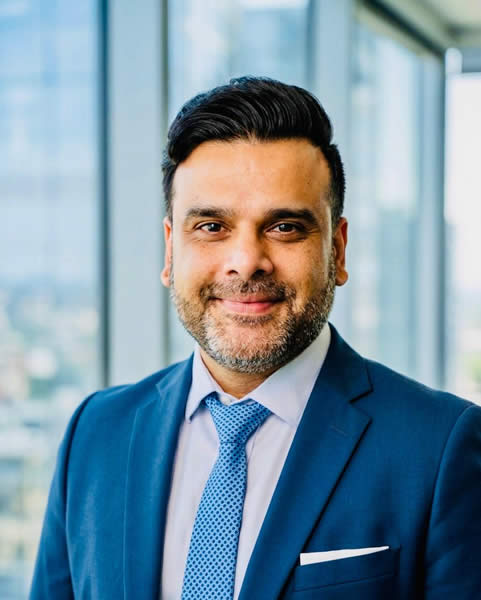
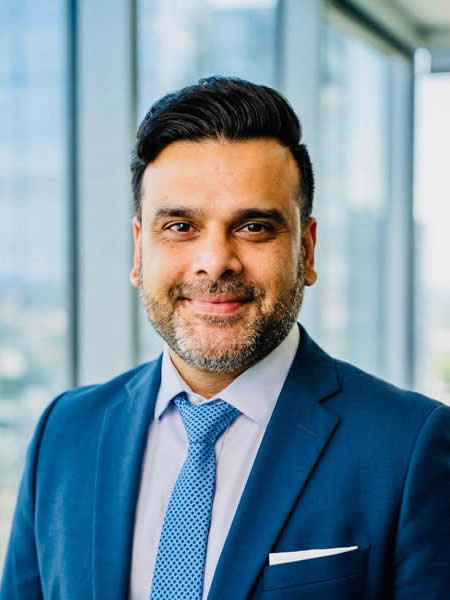
pages updated

diff --git a/about.html b/about.html
@@ -421,18 +421,31 @@
             <div class="leader-card__photo leader-card__photo--initials" data-initials="">
               <img src="images/bimal.jpg" alt="Bimal Kandel, US-based Support Partner of E Multitech Solution" loading="lazy" width="320" height="320" decoding="async" onerror="this.style.display='none';this.parentNode.classList.add('leader-card__photo--initials');">
             </div>
+            <div class="leader-card__verified">
+              <svg width="14" height="14" viewBox="0 0 24 24" fill="currentColor" aria-hidden="true"><path d="M12 0L9.5 3.5L5.5 3L3 6L5 9.5L3 13L5.5 16L9.5 15.5L12 19L14.5 15.5L18.5 16L21 13L19 9.5L21 6L18.5 3L14.5 3.5L12 0zM10 14L6 10L7.41 8.59L10 11.17L16.59 4.58L18 6L10 14z"/></svg>
+              Verified on LinkedIn
+            </div>
           </div>
           <div class="leader-card__body">
-            <p class="leader-card__role">Support Partner</p>
+            <p class="leader-card__role">Managing Partner</p>
             <h3 class="leader-card__name">Bimal Kandel</h3>
             <p class="leader-card__location">
               <svg width="14" height="14" viewBox="0 0 24 24" fill="none" stroke="currentColor" stroke-width="2" stroke-linecap="round" stroke-linejoin="round" aria-hidden="true"><path d="M21 10c0 7-9 13-9 13s-9-6-9-13a9 9 0 0 1 18 0z"/><circle cx="12" cy="10" r="3"/></svg>
-              United States
+              North America
             </p>
             <blockquote class="leader-card__quote">
               &ldquo;US-based support coverage &mdash; same-business-day responses across American time zones.&rdquo;
             </blockquote>
-          
+            <div class="leader-card__links">
+              <a href="https://www.linkedin.com/in/imbimalk/" target="_blank" rel="noopener noreferrer" class="leader-card__link leader-card__link--primary">
+                <svg width="16" height="16" viewBox="0 0 24 24" fill="currentColor" aria-hidden="true"><path d="M20.5 2h-17A1.5 1.5 0 0 0 2 3.5v17A1.5 1.5 0 0 0 3.5 22h17a1.5 1.5 0 0 0 1.5-1.5v-17A1.5 1.5 0 0 0 20.5 2zM8 19H5v-9h3zM6.5 8.25A1.75 1.75 0 1 1 8.3 6.5a1.78 1.78 0 0 1-1.8 1.75zM19 19h-3v-4.74c0-1.42-.6-1.93-1.38-1.93A1.74 1.74 0 0 0 13 14.19a.66.66 0 0 0 0 .14V19h-3v-9h2.9v1.3a3.11 3.11 0 0 1 2.7-1.4c1.55 0 3.36.86 3.36 3.66z"/></svg>
+                Connect on LinkedIn
+              </a>
+              <a href="mailto:[email redacted]" class="leader-card__link">
+                <svg width="16" height="16" viewBox="0 0 24 24" fill="none" stroke="currentColor" stroke-width="2" stroke-linecap="round" stroke-linejoin="round" aria-hidden="true"><rect x="2" y="4" width="20" height="16" rx="2"/><path d="m22 7-8.97 5.7a1.94 1.94 0 0 1-2.06 0L2 7"/></svg>
+                [email redacted]
+              </a>
+            </div>
           </div>
         </article>
         </div>